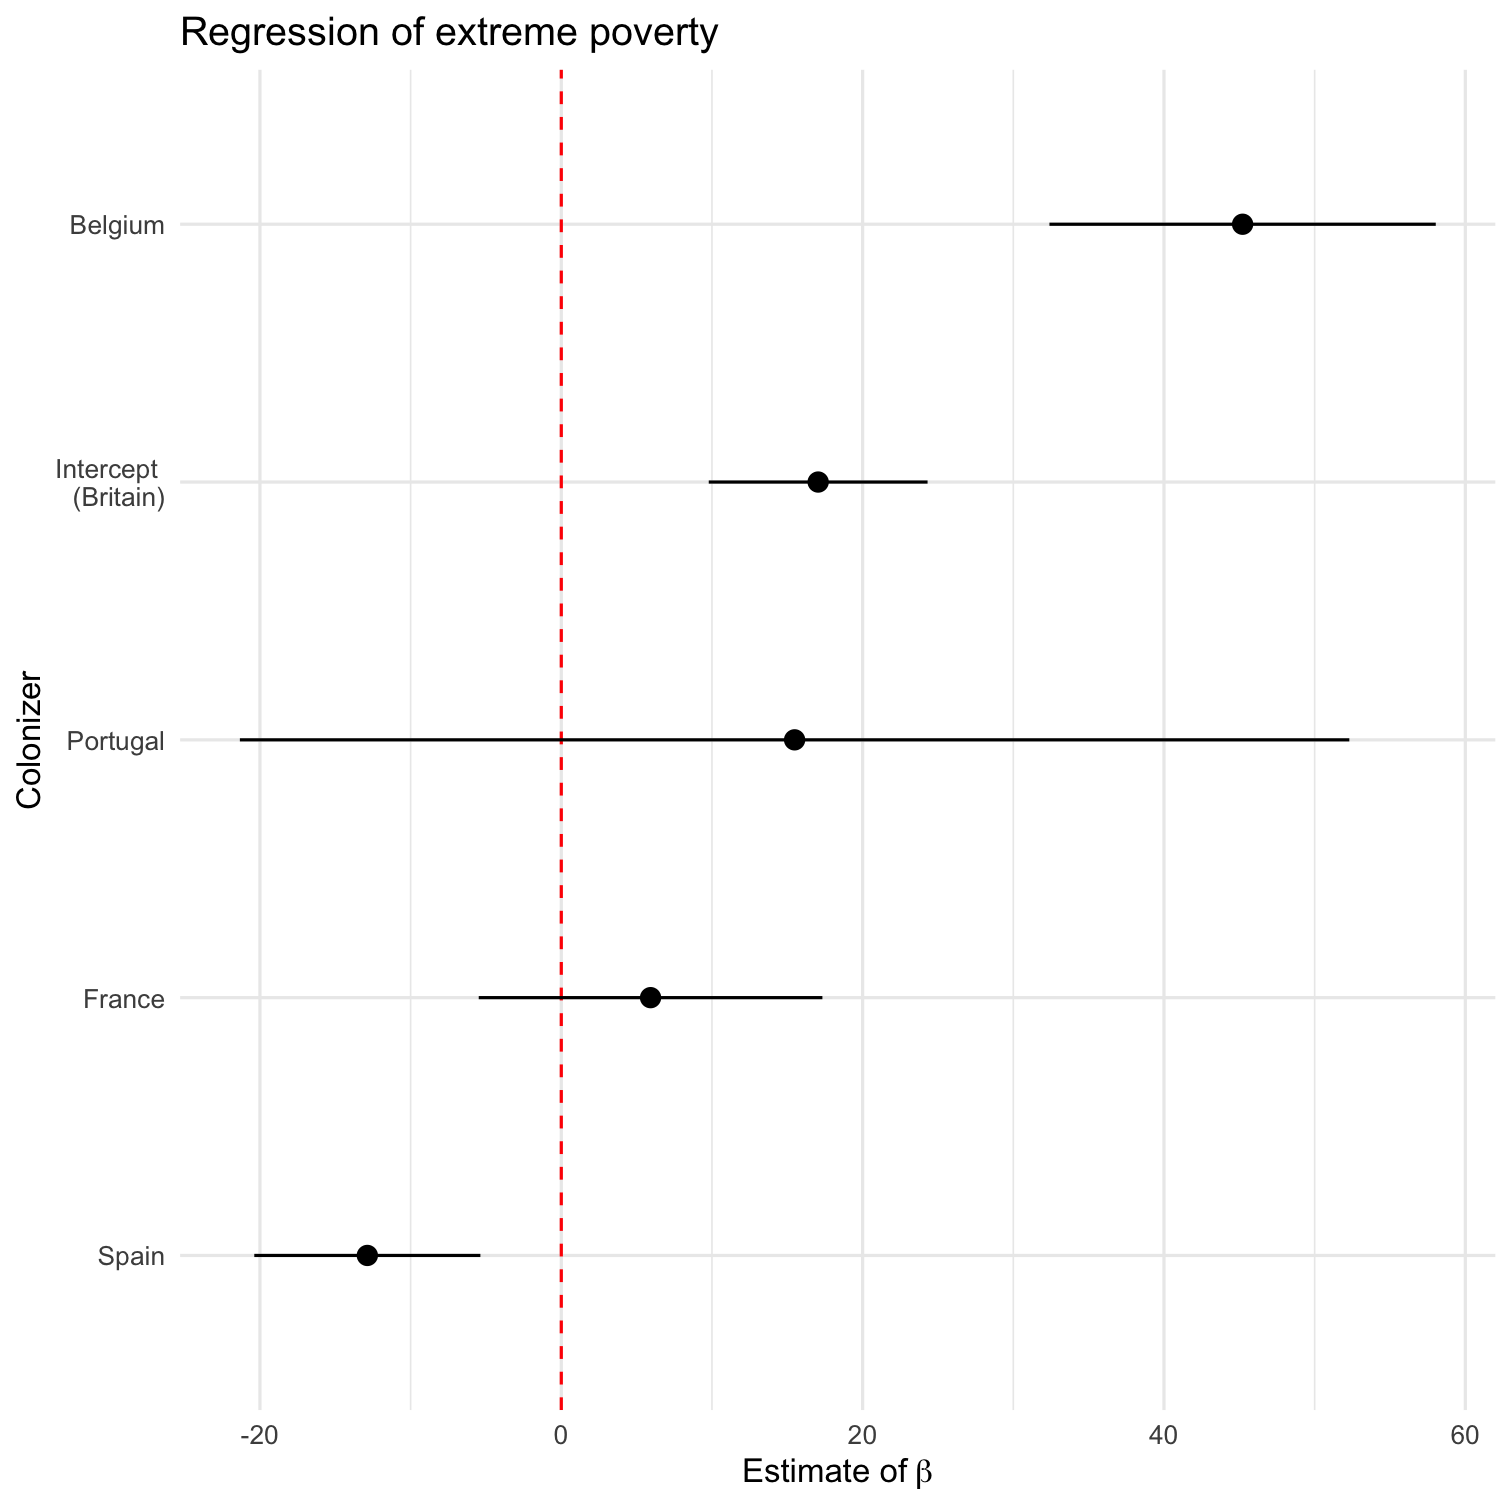
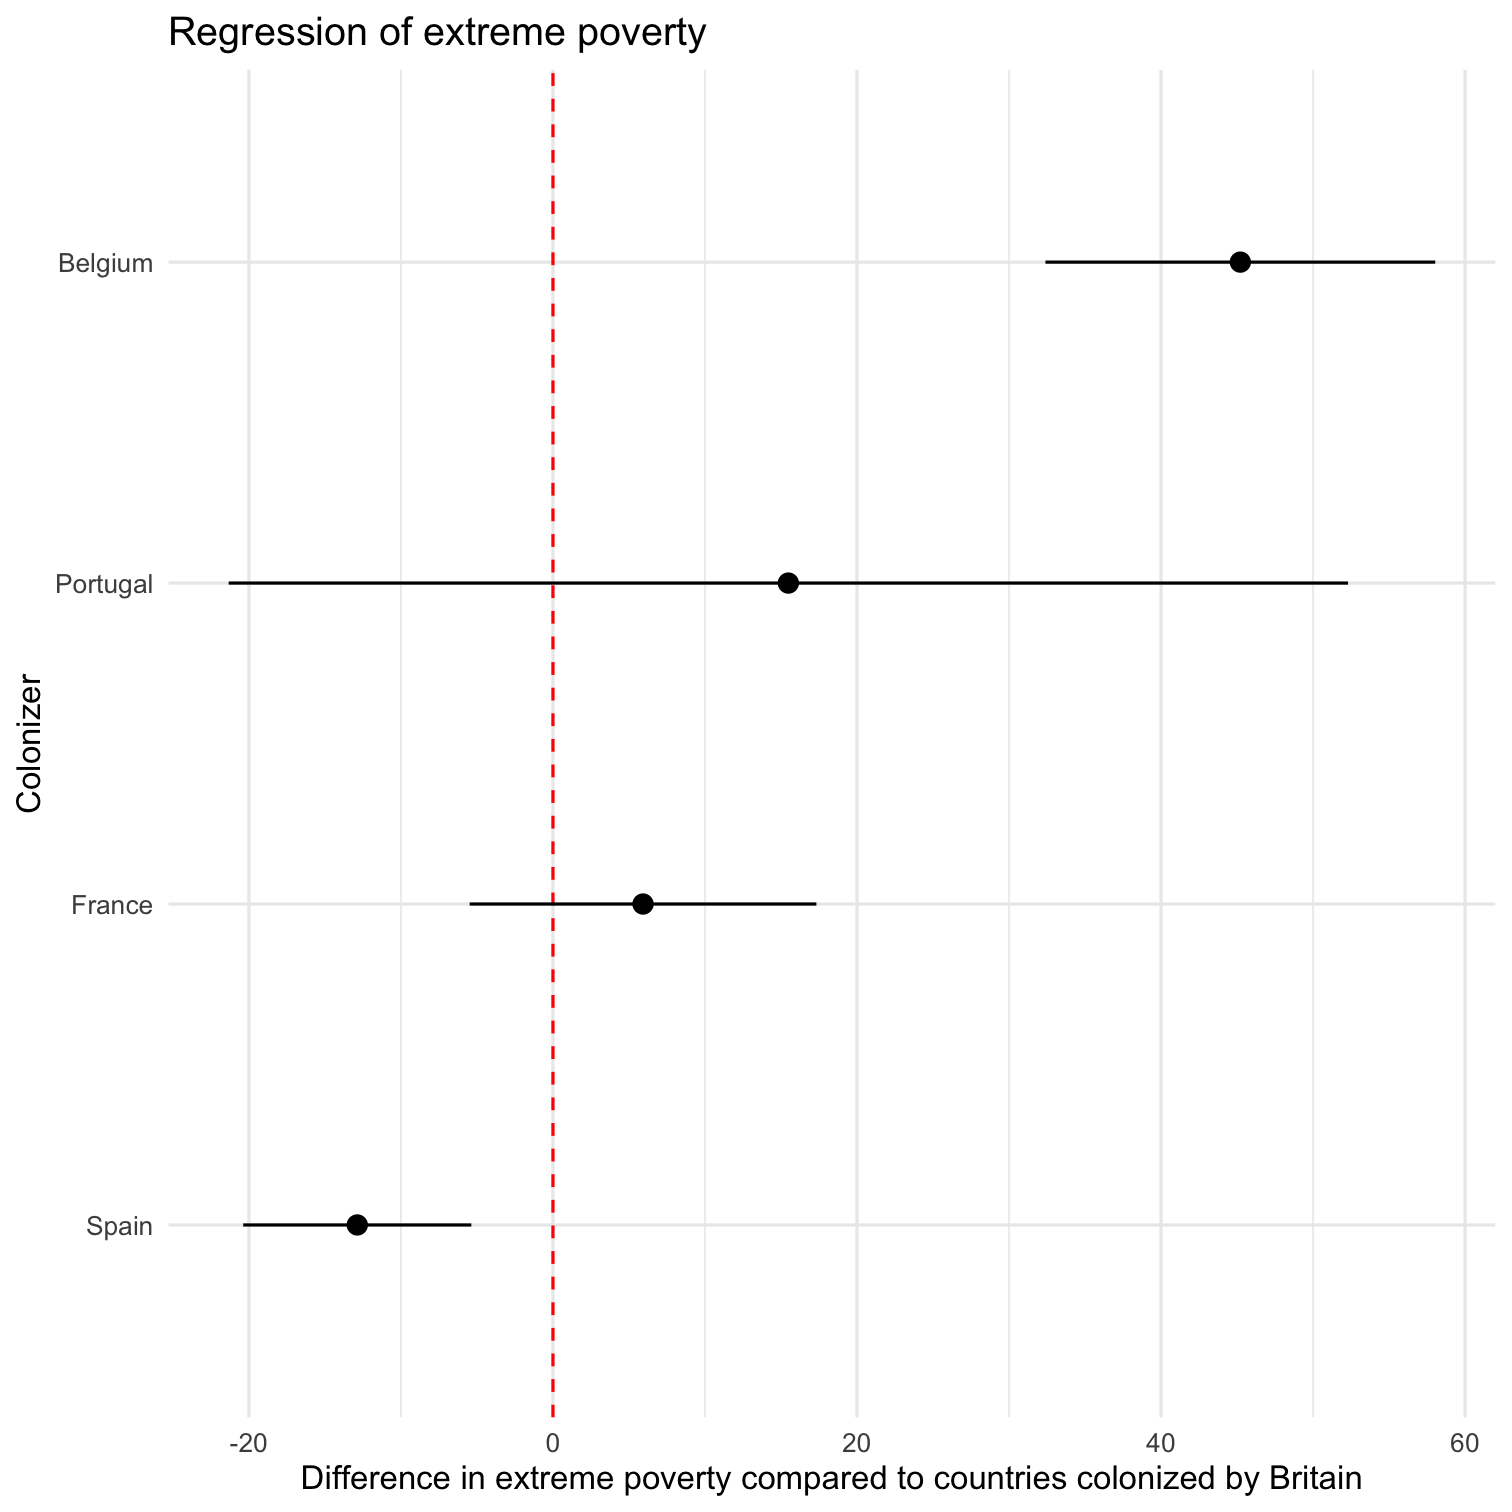
Updated categorical coefplot in lecture 4.

diff --git a/static/Lectures/4-OLS-Wisdom/4-OLS-Wisdoms.html b/static/Lectures/4-OLS-Wisdom/4-OLS-Wisdoms.html
@@ -752,13 +752,13 @@ class: clear
        term == "colonizerSpain" ~ "Spain",
        term == "colonizerBelgium" ~ "Belgium",
        term == "colonizerPortugal" ~ "Portugal",
-       term == "(Intercept)" ~ "Intercept \n (Britain)")))
-#                     term estimate std.error statistic  p.value conf.low conf.high df outcome
-# 1 Intercept \n (Britain)    17.05      3.64     4.678 1.28e-05     9.79     24.31 74 poverty
-# 2                 France     5.93      5.72     1.035 3.04e-01    -5.48     17.33 74 poverty
-# 3                  Spain   -12.87      3.77    -3.419 1.03e-03   -20.37     -5.37 74 poverty
-# 4                Belgium    45.22      6.43     7.028 8.71e-10    32.40     58.04 74 poverty
-# 5               Portugal    15.48     18.48     0.838 4.05e-01   -21.33     52.30 74 poverty
+       term == "(Intercept)" ~ "Intercept \n (Britain)")) %&gt;%
+   filter(term != "Intercept \n (Britain)"))
+#       term estimate std.error statistic  p.value conf.low conf.high df outcome
+# 1   France     5.93      5.72     1.035 3.04e-01    -5.48     17.33 74 poverty
+# 2    Spain   -12.87      3.77    -3.419 1.03e-03   -20.37     -5.37 74 poverty
+# 3  Belgium    45.22      6.43     7.028 8.71e-10    32.40     58.04 74 poverty
+# 4 Portugal    15.48     18.48     0.838 4.05e-01   -21.33     52.30 74 poverty
 ```
 ]
 
@@ -776,7 +776,7 @@ ggplot(data = plotdata, aes(y = estimate,
     title = "Regression of extreme poverty",
     x = "Colonizer",
     # Write Greek beta into axis title.
-    y = expression("Estimate of"~beta)) +
+    y = "Difference in extreme poverty compared to countries colonized by Britain") +
   theme_minimal()
 ```
 ]
